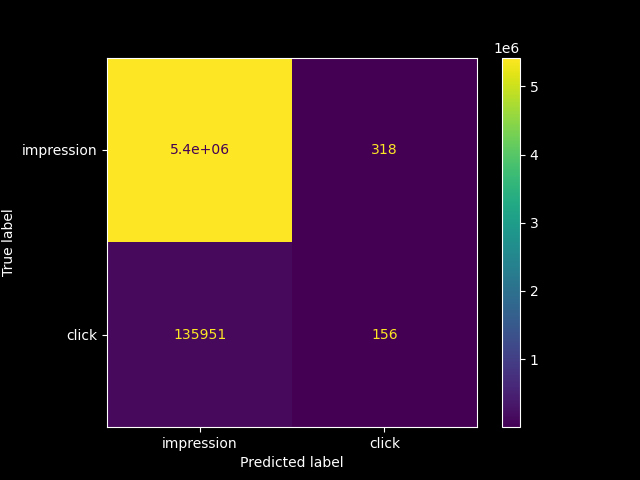
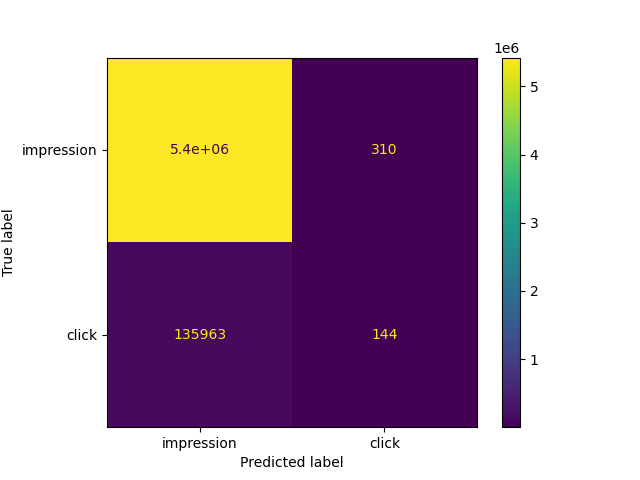
feat: 测试不平衡采样方法, 未完成，直接 imbalance ensemble效果不好

diff --git a/datasets/analysis/imbalance测试.py b/datasets/analysis/imbalance测试.py
@@ -1,0 +1,129 @@
+# %%
+from pathlib import Path
+this_file = Path(__file__).resolve()
+this_directory = this_file.parent
+project_directory = this_directory.parent.parent
+import sys
+sys.path.append(project_directory.as_posix())
+
+# %%
+import numpy as np
+# import dpctl
+from sklearnex import patch_sklearn, config_context
+patch_sklearn()
+
+# %%
+from munch import DefaultMunch, Munch
+params = DefaultMunch()
+params.dataset_name = 'AliExpress_NL'
+params.dataset_path = (project_directory/'data').as_posix()
+
+# %%
+from datasets import get_dataset
+import os
+from torch.utils.data import DataLoader
+train_dataset = get_dataset(params.dataset_name, os.path.join(
+        params.dataset_path, params.dataset_name) + '/train.csv')
+test_dataset = get_dataset(params.dataset_name, os.path.join(
+    params.dataset_path, params.dataset_name) + '/test.csv')
+
+
+# %%
+import joblib
+memory = joblib.Memory('./joblib_tmp', verbose=1)
+@memory.cache
+def get_multi_numeric():
+    # X_train = np.hstack((train_dataset.categorical_data, train_dataset.numerical_data))
+    X_train = train_dataset.numerical_data
+    # X_train = train_dataset.categorical_data
+    # y_train = np.sum(train_dataset.labels, axis=1)
+    y_train = train_dataset.labels
+    # X_test = np.hstack((test_dataset.categorical_data, test_dataset.numerical_data))
+    X_test = test_dataset.numerical_data
+    # X_test = test_dataset.categorical_data
+    # y_test = np.sum(test_dataset.labels, axis=1)
+    y_test = test_dataset.labels
+    return X_train, y_train, X_test, y_test
+X_train, y_train, X_test, y_test = get_multi_numeric()
+
+# %%
+# from sklearn.linear_model import LogisticRegression
+# clf0 = LogisticRegression(random_state=0)
+# clf0.fit(X_train, y_train[:, 0])
+# clf1 = LogisticRegression(random_state=0)
+# clf1.fit(X_train, y_train[:, 1])
+
+from imblearn.ensemble import BalancedBaggingClassifier
+clf0 = BalancedBaggingClassifier(random_state=0, verbose=1, n_jobs=128)
+clf0.fit(X_train, y_train[:, 0])
+clf1 = BalancedBaggingClassifier(random_state=0, verbose=1, n_jobs=128)
+clf1.fit(X_train, y_train[:, 1])
+
+# %%
+from matplotlib import pyplot as plt
+from sklearn.metrics import *
+import matplotlib.pyplot as plt
+from sklearn.metrics import RocCurveDisplay, classification_report
+from sklearn.metrics import roc_curve
+from sklearn.metrics import auc
+from sklearn.inspection import DecisionBoundaryDisplay
+
+def plot_contour(clf, X, y, filename):
+    plt.scatter(X[:, 0], X[:, 1], c=y, s=30, cmap=plt.cm.Paired)
+    ax = plt.gca()
+    DecisionBoundaryDisplay.from_estimator(
+        clf,
+        X,
+        plot_method="contour",
+        colors="k",
+        levels=[-1, 0, 1],
+        alpha=0.5,
+        linestyles=["--", "-", "--"],
+        ax=ax,
+    )
+    plt.savefig(f'fig/{filename}.png')
+
+def plot_auc(y_test, y_pred, filename):
+    fpr, tpr, thresholds = roc_curve(y_test, y_pred)
+    roc_auc = auc(fpr, tpr)
+    plt.figure()
+    plt.plot(fpr, tpr, color='darkorange',
+                lw=2, label='ROC curve (area = %0.2f)' % roc_auc)
+    plt.plot([0, 1], [0, 1], color='darkblue', linestyle='--')
+    plt.xlabel('False Positive Rate')
+    plt.ylabel('True Positive Rate')
+    plt.title(f'Receiver Operating Characteristic Curve for {filename}')
+    plt.legend(loc="lower right")
+    plt.savefig(f'fig/{filename}.png')
+    return roc_auc
+
+def evaluate_and_draw(model, X_test, y_test, model_name='tree', classes = ['impression', 'click']):
+    print(f"模型自带分数：{model.score(X_test, y_test)}")
+    y_pred = model.predict(X_test)
+    y_proba = model.predict_proba(X_test)
+    print(classification_report(y_test, y_pred))
+    print(f"Precision: {precision_score(y_test, y_pred, average='macro')}")
+    print(f"Recall: {recall_score(y_test, y_pred, average='macro')}")
+    print(f"F1: {f1_score(y_test, y_pred, average='macro')}")
+    print(f"Accuracy: {accuracy_score(y_test, y_pred)}")
+    print(f'log_loss: {log_loss(y_test, y_proba)}')
+    # 多分类，取第一类的auc
+    auc = plot_auc(y_test, y_proba[:, 1], f'{model_name}_auc') 
+    print(f"auc：{auc}")
+    y_pred = model.predict(X_test)
+    # classes = ['impression', 'click', 'purchase']
+    cm = confusion_matrix(y_test, y_pred, labels=[0,1])
+    plt.figure()
+    disp = ConfusionMatrixDisplay(confusion_matrix=cm, display_labels=classes)
+    disp.plot()
+    plt.savefig(f'fig/{model_name}.png')
+
+
+# %%
+evaluate_and_draw(clf0, X_test, y_test[:, 0], 'balanced_bag_two0')
+evaluate_and_draw(clf1, X_test, y_test[:, 1], 'balanced_bag_two1')
+#%%
+plot_contour(clf, X_test[:, :2], y_test[:, 0], 'logistic_two0_contour')
+
+
+# %%
